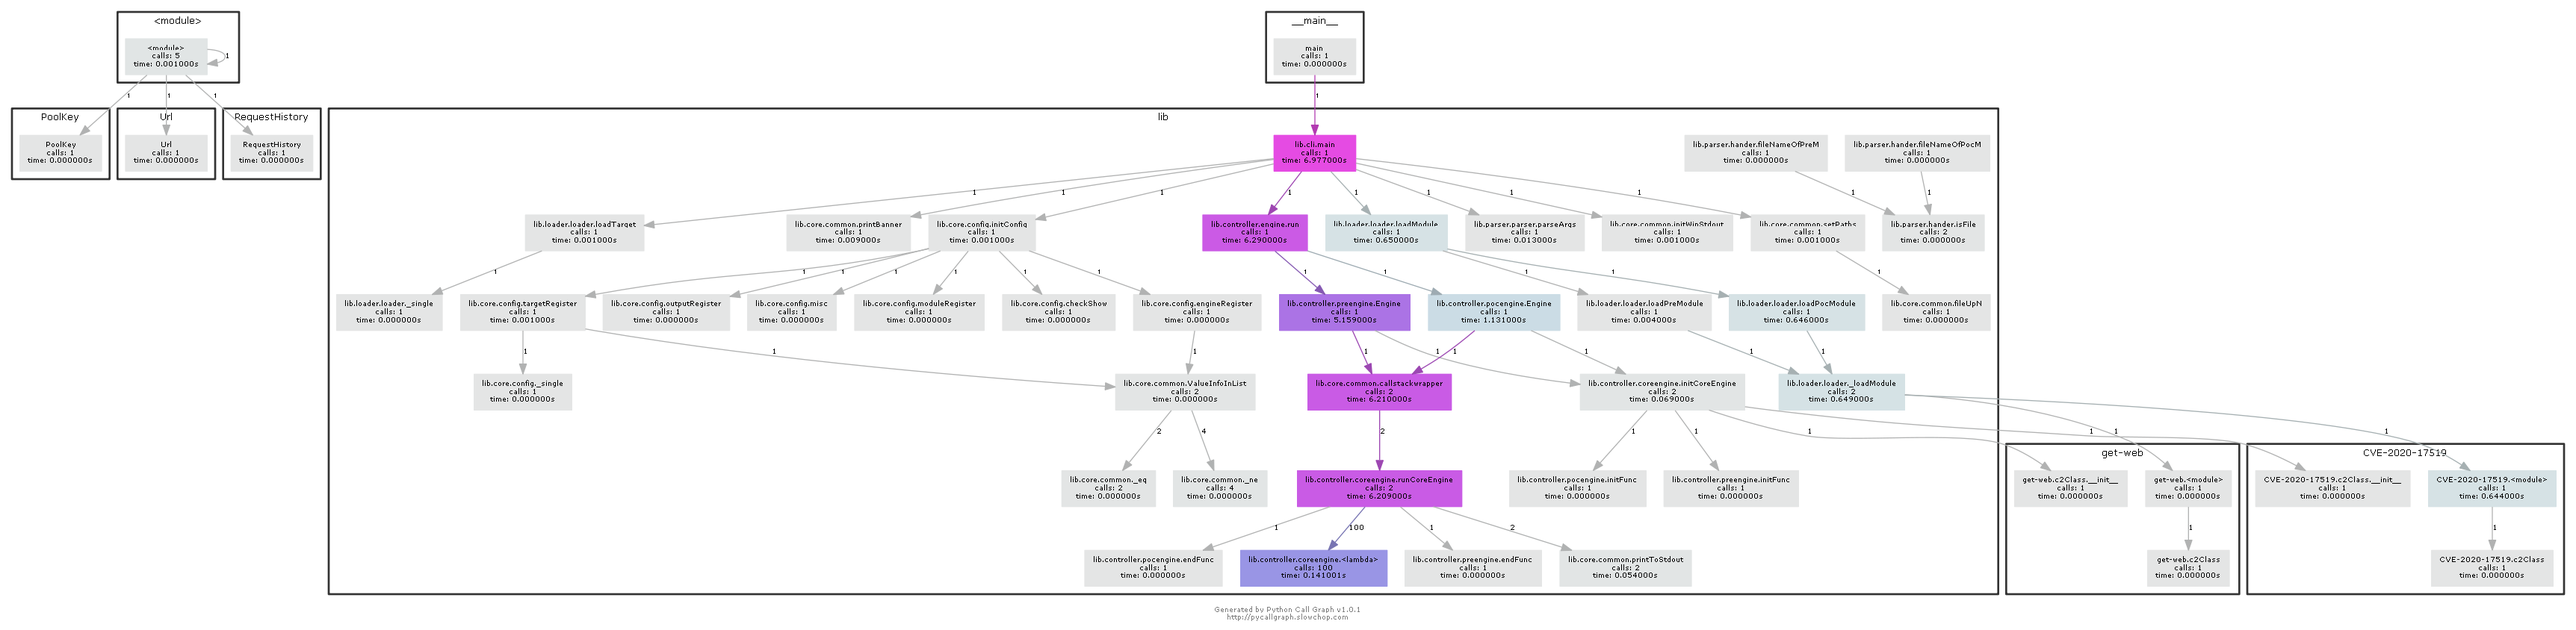
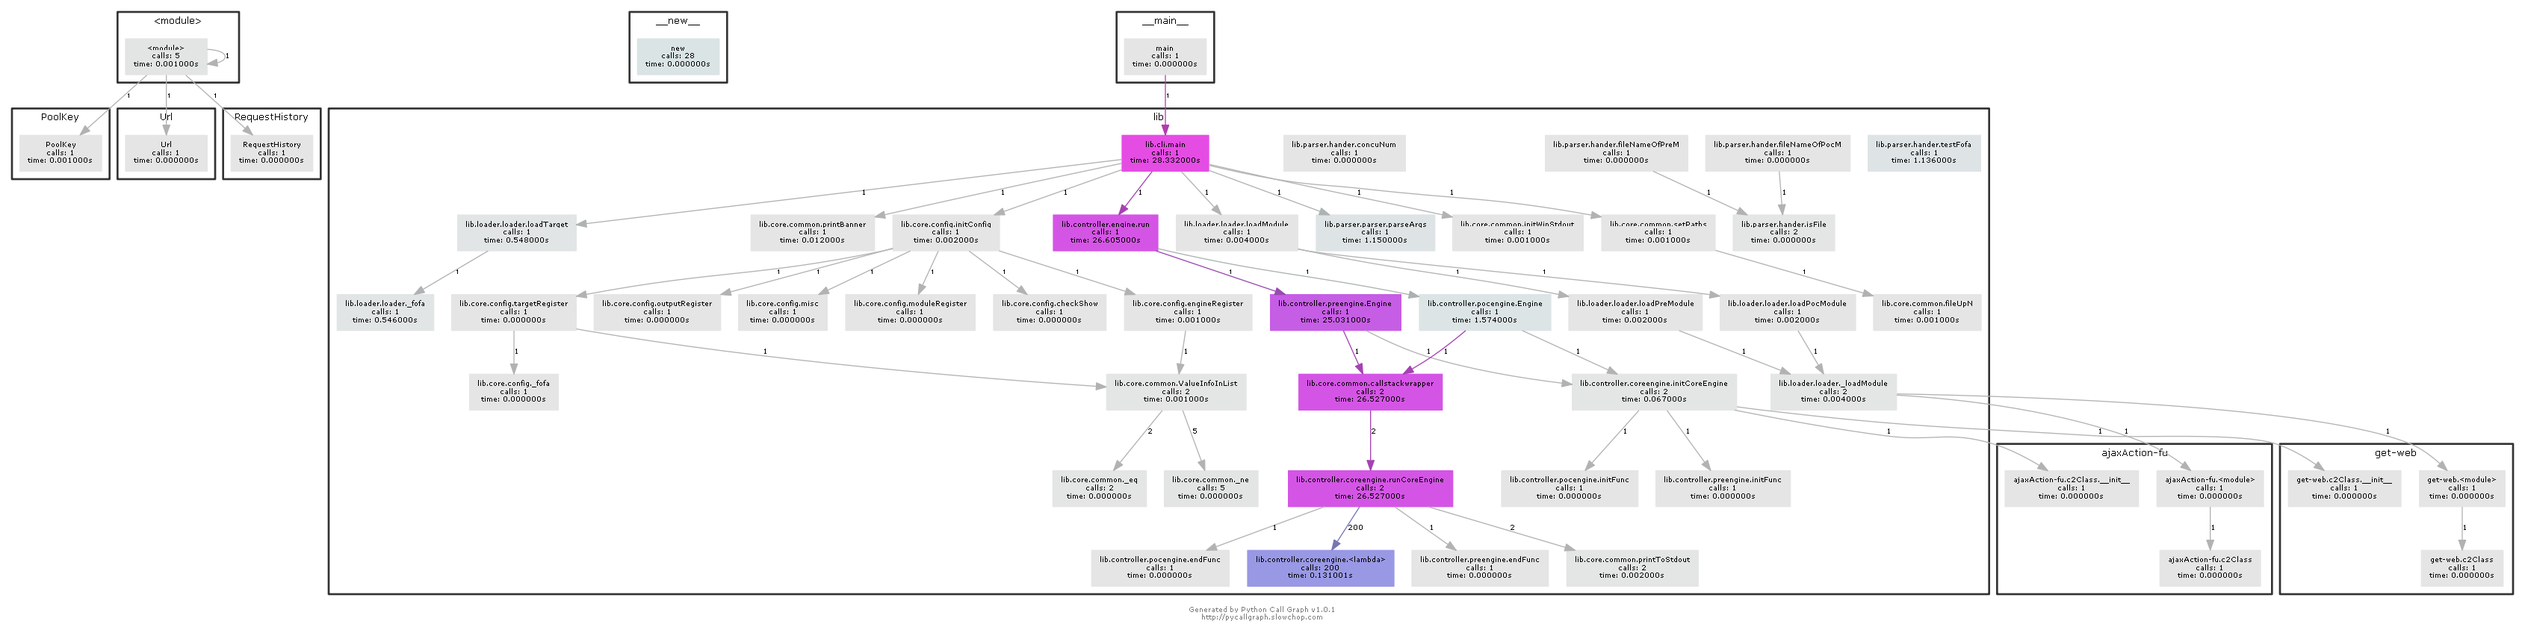
add Fofa-pi

diff --git a/lib/loader/loader.py b/lib/loader/loader.py
@@ -6,7 +6,7 @@ import os
 from thirdparty import IPy
 from lib.core.common import intRange
 from lib.core.data import prepare,conf,logger
-from lib.core.setting import CLASSNAME,FUNCNAME
+from lib.core.setting import CLASSNAME,FUNCNAME,API_KEY
 from lib.core.static import CUSTOM_LOGGING,TARGET_TYPE,MODULE_TYPE
 
 
@@ -47,15 +47,32 @@ def loadTarget():
 		except ValueError as e:
 			errMsg = "Invalid IP-Range : %s .The correct IP-Range is such as : 192.168.1.1-192.168.2.1"%conf['TARGET']
 			sys.exit(logger.error(errMsg))
-
+	def _fofa(): # 从Fofa API查询，获取目标
+		import requests,json,base64
+		query=conf['TARGET']
+		qbase64=base64.b64encode(query)
+		email=API_KEY['Fofa']['email']
+		key=API_KEY['Fofa']['key']
+		size=API_KEY['Fofa']['size']
+		url="https://fofa.so/api/v1/search/all?email=%s&key=%s&qbase64=%s&size=%s"%(email,key,qbase64,size)
+		try:
+			resp=requests.get(url)
+			queryResults=json.loads(resp.content) # {u'results': [[u'vulfocus.fofa.so', u'118.193.36.37', u'80'], [u'https://www.fofa.so', u'36.102.212.81', u'443']], u'mode': u'extended', u'error': False, u'query': u'domain="fofa.so"', u'page': 1, u'size': 10}
+			if 'errmsg' in queryResults:
+				raise Exception(queryResults['errmsg'])
+			server=[i[0] for i in queryResults['results']] # [u'vulfocus.fofa.so', u'https://www.fofa.so']
+			for s in server:
+				prepare['allTarget'].add(s)
+		except Exception as e:
+			errMsg = "Query api data occur exception. Exception :%s"%e
+			sys.exit(logger.error(errMsg))
 	# _func是一个方法列表，方法的下标和lib\core\static.py的TARGET_TYPE内的元素值一一对应
-	_func = [_single,_file,_network,_iprange]
+	_func = [_single,_file,_network,_iprange,_fofa]
 	_func[conf['TARGET_TYPE']]() # 调用对应目标类型的处理目标方法
-
 	msg = 'Successfully loaded all targets'
 	logger.log(CUSTOM_LOGGING.SUCCESS,msg)
 
-# 载入模块的底层方法
+# 载入块的底层方法
 def _loadModule(mType,mList,mNum): # mType:模块类型 mList:模块信息列表 mNum:模块数
 	prepare[mType] = []
 	for mInfo in mList:

diff --git a/lib/core/config.py b/lib/core/config.py
@@ -106,17 +106,20 @@ def targetRegister(args):
 	def _iprange():
 		conf['TARGET_TYPE'] = TARGET_TYPE.IPRANGE
 		conf['TARGET'] = args.target_iprange
-	_fun=[_single,_file,_network,_iprange] # 函数列表
-	checkList=[args.target_single,args.target_file,args.target_network,args.target_iprange]
+	def _fofa():
+		conf['TARGET_TYPE'] = TARGET_TYPE.FOFA
+		conf['TARGET'] = args.target_fofa
+	_fun=[_single,_file,_network,_iprange,_fofa] # 函数列表
+	checkList=[args.target_single,args.target_file,args.target_network,args.target_iprange,args.target_fofa]
 	# _fun中的元素顺序与checkList的元素顺序都是相关联的，一一对应的
 	seted,index=ValueInfoInList(checkList,None,3)
 	if seted == 1: # 设置了一个值
 		_fun[index]()
 	elif seted > 1: # 设置了多个值
-		msg='Too more options in [-iS|iF|-iN|-iR]'
+		msg='Too more options in [-iS|iF|-iN|-iR|-qF]'
 		sys.exit(logger.error(msg))
 	else: # 未设置值
-		msg='Too few options in [-iS|iF|-iN|-iR]. Please use [-iS|iF|-iN|-iR] to set your target'
+		msg='Too few options in [-iS|iF|-iN|-iR|-qF]. Please use [-iS|iF|-iN|-iR|-qF] to set your target'
 		sys.exit(logger.error(msg))
 
 def outputRegister(args):

diff --git a/lib/parser/hander.py b/lib/parser/hander.py
@@ -2,6 +2,7 @@
 import os
 import argparse
 from lib.core.log import DEBUG
+from lib.core.setting import API_KEY
 from lib.core.data import paths
 
 
@@ -41,6 +42,23 @@ def isFile(fn,fp):
 		errMsg="Cannot find the file named '%s' under %s"%(fn,fp)
 		raise argparse.ArgumentTypeError(errMsg)
 	return fullPath
+
+# 检测Fofa api是否可用
+def testFofa(_str):
+	query=_str
+	email=API_KEY['Fofa']['email']
+	key=API_KEY['Fofa']['key']
+	url="https://fofa.so/api/v1/info/my?email=%s&key=%s"%(email,key)
+	import requests,json
+	resp=requests.get(url)
+	authData=json.loads(resp.content)
+	if 'error' in authData:
+		errMsg="FOFA API is not available. Please check the FOFA configuration(email,key) located in lib/code/setting.py"%(fn,fp)
+		raise argparse.ArgumentTypeError(errMsg)
+	if authData['isvip'] == False and authData['fcoin']==0:
+		errMsg="FOFA API is not available. Because you are no VIP users and FOFA coin is not enough!"
+		raise argparse.ArgumentTypeError(errMsg)
+	return query
 
 # 自定义一个Action类
 # 自定义 action 方法需要继承自 argparse.Action 类,并且实现一个 __call__ 方法

diff --git a/lib/parser/parser.py b/lib/parser/parser.py
@@ -4,11 +4,11 @@ import sys
 import time
 from lib.core.setting import VERSION
 from lib.core.data import logger
-from lib.parser.hander import concuNum,fileNameOfPocM,fileNameOfPreM,fileNameOfTgt,myActionDebug
+from lib.parser.hander import concuNum,fileNameOfPocM,fileNameOfPreM,fileNameOfTgt,testFofa,myActionDebug
 from lib.core.static import CUSTOM_LOGGING
 from lib.core.setting import CONCURRENT_NUM
 
-usage='''python MyCT.py [-eT|-eG] [-pm] [-m] [-iS|iF|-iN|-iR] [-o] [msic]
+usage='''python MyCT.py [-eT|-eG] [-pm] [-m] [-iS|iF|-iN|-iR|-qF] [-o] [msic]
 
 Example:
 python MyCT.py -m demo -iS 1.1.1.1 -o
@@ -66,6 +66,10 @@ def parseArgs():
 	TARGET.add_argument('-iR',type=str,
 		dest='target_iprange',metavar='IP-IP',
 		help='Load the target from the ip range (e.g 10.1.1.1-10.1.1.125)'
+		)
+	TARGET.add_argument('-qF',type=testFofa,
+		dest='target_fofa',metavar='QUERY',
+		help='Query data from Fofa API (e.g domain="fofa.so")'
 		)
 
 	# 输出结果参数组

diff --git a/lib/core/setting.py b/lib/core/setting.py
@@ -25,6 +25,15 @@ RELATIVE_PATH = {
 'OUTPUT':'output',
 'DATA':'data'}
 
+# 使用API所需要的数据
+API_KEY= {
+	'Fofa':{
+	'email':'xxx@email.com',
+	'key':'xxxxxxxxxxxxxxxxxxxxxxxxxxxxxxxxxxxxx',
+	'size':100 # 【普通会员】免费前100条/次 【高级会员】免费前10000条/次 【企业会员】免费前100,000条/次 check in https://fofa.so/static_pages/vip
+	}
+}
+
 # 图标
 BANNER ='''
 \033[04;31m    __  ___      ____________  \033[0m

diff --git a/pocmodules/CVE-2020-17519.py b/pocmodules/CVE-2020-17519.py
@@ -33,8 +33,8 @@ class c2Class(object):
 		try:
 			url=target.strip('/')+self.vulpath+self.payload
 			resp=requests.get(url=url,verify=False,timeout=5)
-			print(url)
-			print(resp.text)
+			# print(url)
+			# print(resp.text)
 			if self.flag in resp.text:
 				returnData='%s is bad.The vuln is %s.The payload is [%s], '\
 				'the result is [%s].'%(target.strip('/'),self.vulname,url,resp.text.strip()) #

diff --git a/lib/core/static.py b/lib/core/static.py
@@ -23,6 +23,9 @@ class TARGET_TYPE:
 	FILE = 1
 	NETWORK = 2
 	IPRANGE = 3
+	FOFA = 4
+	SHODAN = 5
+	ZOOMEYE = 6
 
 # 并发函数返回状态
 class RETURN_STATUS:
